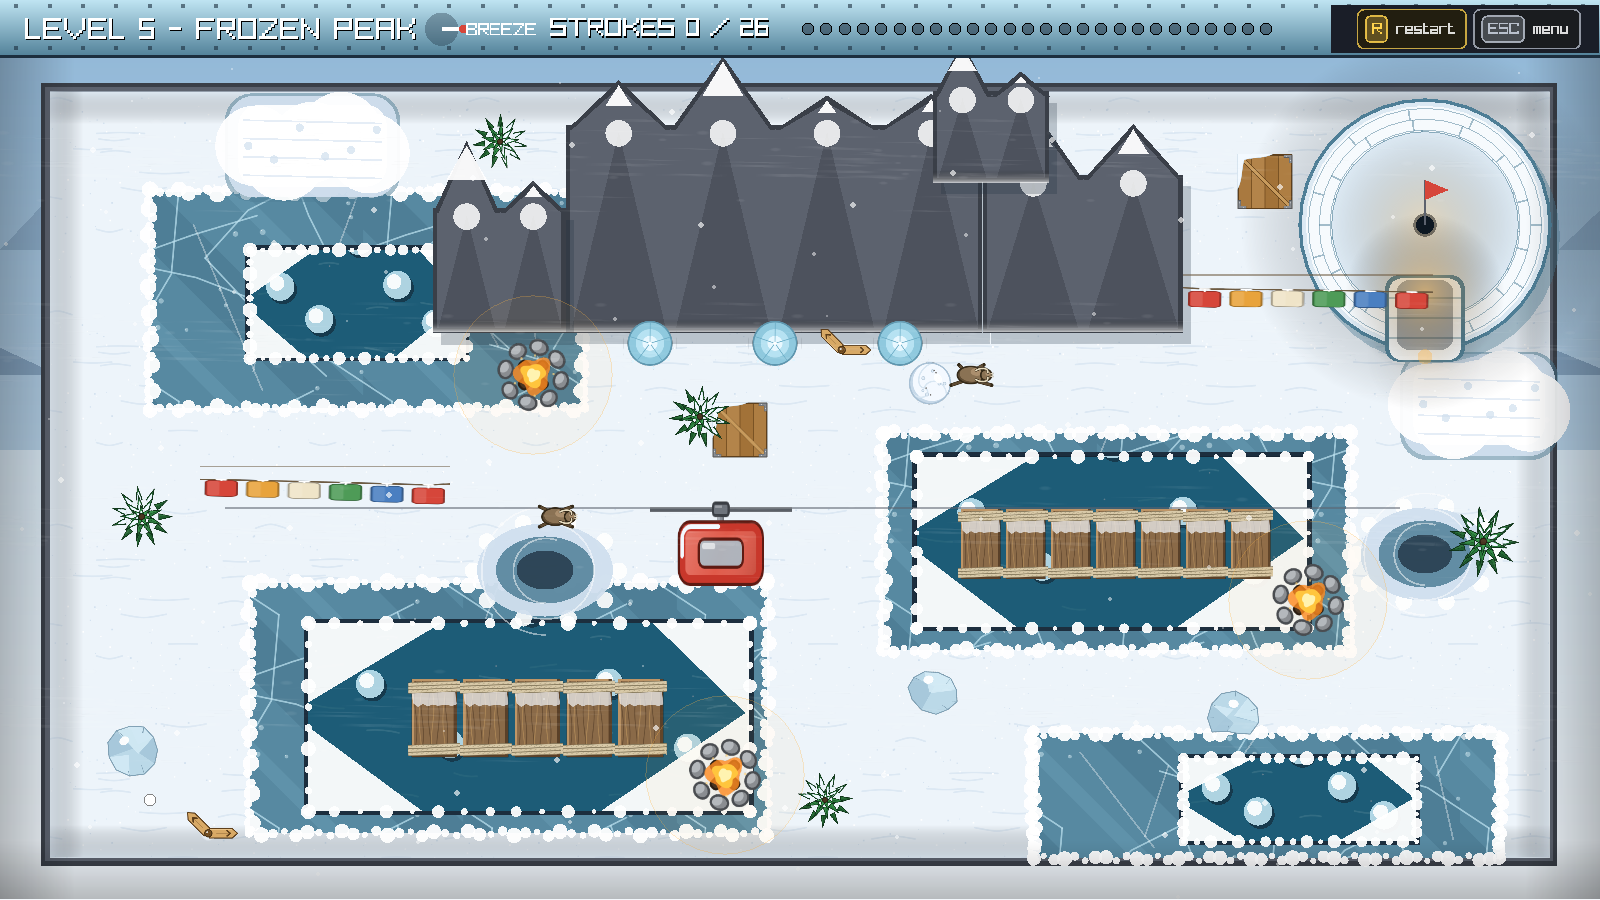
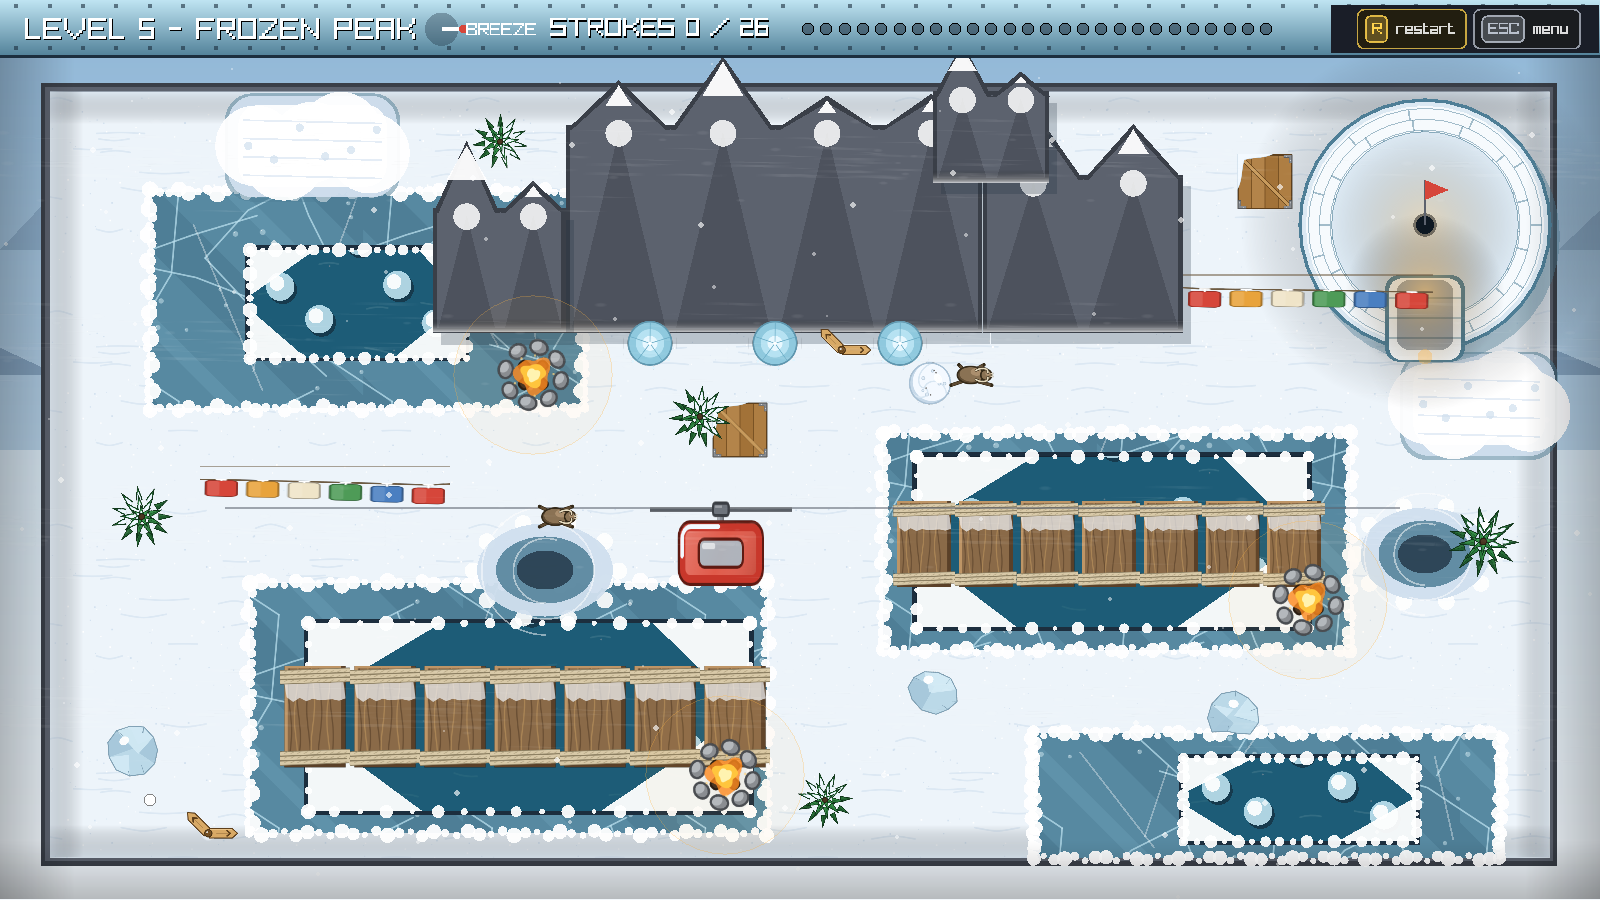
Make the boardwalks reach the bank, so they can actually be used
When the leads were widened so the water would show either side of the
planks, only the water moved. The boardwalks stayed where they were, which
left open water between each bank and the end of the crossing: 120 units on
the west side of the south lead, 100 on the east. The ball went in before it
ever reached a plank. The bridge could not be used at all.

Both boardwalks now run bank to bank with a landing on solid ice at each end,
seven planks each.

The fuse is 1.6 and 1.2 seconds rather than 0.3 and 0.2. At a third of a
second a plank gave way under a ball still rolling across it at ordinary
speed, which is not a risk, it is a wall. It is long enough now to get a
shot away if you stall halfway, and the plank is still gone for five seconds
afterwards, so you cannot dawdle and you cannot double back.

tools/bridge_test.c is new, because the segment checker cannot catch this: it
walks between waypoints and will happily route round a lead instead of over
it. The new one drives the ball at each crossing from both banks, at twelve
speeds, and along the top and bottom edges of the planks as well as down the
middle, then says whether it got across, went in, or stopped on the bridge.
Every crossing is now makeable from either side at ordinary shot strength.

Changed region(s): [[0.1562, 0.7156, 0.5, 0.8711], [0.5625, 0.5289, 0.8438, 0.6533]]

diff --git a/tools/bridge_test.c b/tools/bridge_test.c
@@ -1,0 +1,91 @@
+//Can you actually cross the boardwalks on Frozen Peak?
+//
+//The segment checker walks the course between waypoints, which never proves that a
+//crossing works: it can route round the water instead. This drives the ball at a
+//boardwalk from the bank, at a range of speeds, and says whether it got to the far side.
+//
+//Build it the same way as segment_test.c and run it from the repo root.
+#include "rlgl.h"
+#include <stdio.h>
+#define main game_main
+#include "../src/the_ultimate_golf.c"
+#undef main
+
+
+//roll the ball across one bridge and say what happened
+//  0 = made it      1 = went in the water      2 = still on the bridge when time ran out
+int cross(int bridge, float from_x, float to_x, float lane_y, float speed)
+{
+    l5_reset_level();
+    l5_ball = (Vector2){from_x*su,lane_y*su};
+    l5_last_shot_position = l5_ball;
+    float way = (to_x>from_x) ? 1 : -1;
+    l5_speed = (Vector2){way*speed*su,0};
+
+    int fell = 0;
+    for (int frame=0; frame<600; frame++)
+    {
+        float dt = 1.0/60;
+        l5_update_obstacles(dt);
+        Vector2 before = l5_ball;
+        l5_update_ball(dt);
+        //update_ball sends the ball home when it goes in, so a jump back is a soaking
+        if (Vector2Distance(before,l5_ball) > 300*su) fell = 1;
+        if (fell) return 1;
+        if (way>0 && l5_ball.x > to_x*su) return 0;
+        if (way<0 && l5_ball.x < to_x*su) return 0;
+        //it stopped dead somewhere
+        if (Vector2Length(l5_speed) < 2*su && frame>30) break;
+    }
+    //where did it stop?
+    if (l5_on_safe_ground(l5_ball)==0) return 1;
+    return 2;
+}
+
+
+int main(void)
+{
+    InitWindow(1600,900,"bridge test");
+    SetTargetFPS(60);
+    screen_width = GetScreenWidth();
+    screen_height = GetScreenHeight();
+    su = screen_height/1080.0;
+    if (screen_width/1920.0 < su) su = screen_width/1920.0;
+    l5_start(screen_width,screen_height);
+
+    //west bank -> east bank over each lead, and back again
+    float run[8][4] = {
+        //bridge, start x, finish x, the line the ball is on
+        {0,  300,  960,  860},
+        {0,  960,  300,  860},
+        {0,  300,  960,  820},     //high on the planks
+        {0,  300,  960,  900},     //low on the planks
+        {1, 1030, 1630,  653},
+        {1, 1630, 1030,  653},
+        {1, 1030, 1630,  620},
+        {1, 1030, 1630,  686}};
+    const char *name[8] = {"south lead, west to east","south lead, east to west",
+                           "south lead, along the top edge","south lead, along the bottom edge",
+                           "middle lead, west to east","middle lead, east to west",
+                           "middle lead, along the top edge","middle lead, along the bottom edge"};
+
+    for (int r=0; r<8; r++)
+    {
+        int made = 0, drowned = 0, stuck = 0;
+        printf("%s\n",name[r]);
+        for (int k=0; k<12; k++)
+        {
+            float speed = 160 + k*45;          //a gentle roll up to a full-blooded shot
+            int what = cross(run[r][0],run[r][1],run[r][2],run[r][3],speed);
+            if (what==0) made++;
+            else if (what==1) drowned++;
+            else stuck++;
+            printf("   %4.0f units/sec : %s\n",speed,
+                   what==0 ? "across" : (what==1 ? "IN THE WATER" : "stopped on it"));
+        }
+        printf("   -> %d across, %d in, %d stopped short\n\n",made,drowned,stuck);
+    }
+
+    CloseWindow();
+    return 0;
+}

diff --git a/src/levels/level5_frozen_peak.c b/src/levels/level5_frozen_peak.c
@@ -76,12 +76,12 @@ float l5_drift_timer = 0;
 //two crossings over the big crevasse: the gondola is slow and safe, the bridge is quick and breaks
 //plank state: 0 solid, 1 cracking, 2 gone
 Rectangle l5_plank[2][7];
-int l5_plank_count[2] = {5,7};
+int l5_plank_count[2] = {7,7};
 int l5_plank_state[2][7];
 float l5_plank_timer[2][7];
 //how long a plank holds once you are standing on it. Short on purpose: you cross a
 //boardwalk at speed or you go in.
-float l5_plank_crack_time[2] = {0.3,0.2};
+float l5_plank_crack_time[2] = {1.6,1.2};
 
 //the gondola carries the ball across
 Rectangle l5_gondola;
@@ -225,8 +225,10 @@ void l5_reset_level()
     l5_drift_timer = 0;
 
     //boardwalks over the two biggest leads, for anyone who would rather not go round
-    for (int i=0; i<5; i++) l5_plank[0][i] = l5_make_rect(490+i*62,812,62,100);
-    for (int i=0; i<7; i++) l5_plank[1][i] = l5_make_rect(1150+i*54,608,54,90);
+    //bank to bank, with a landing on the solid ice at each end. A boardwalk that stops
+    //short of the shore is a boardwalk nobody can get onto.
+    for (int i=0; i<7; i++) l5_plank[0][i] = l5_make_rect(336+i*84,795,84,130);
+    for (int i=0; i<7; i++) l5_plank[1][i] = l5_make_rect(1072+i*74,598,74,110);
     for (int b=0; b<2; b++)
     {
         for (int i=0; i<7; i++)
